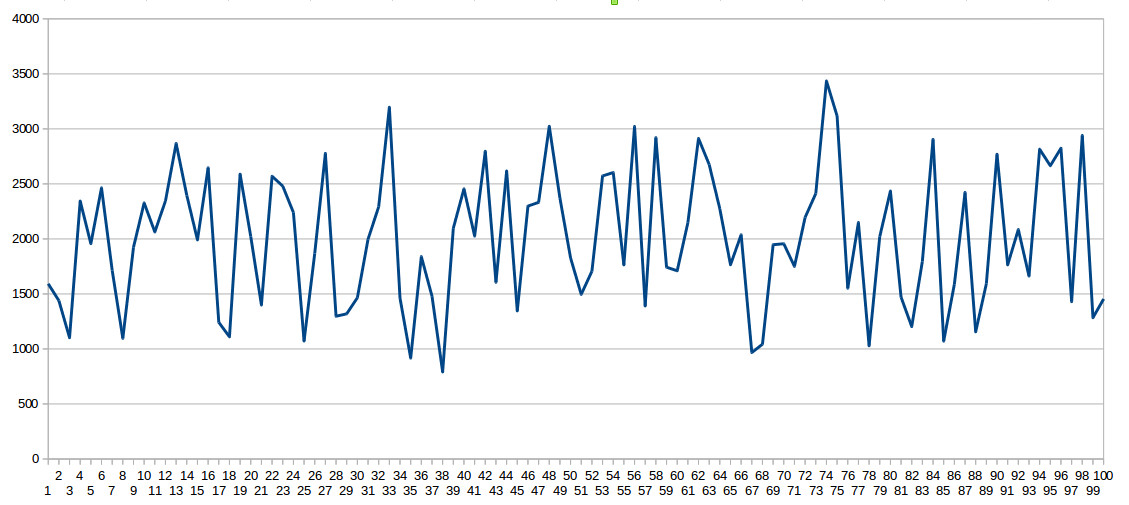
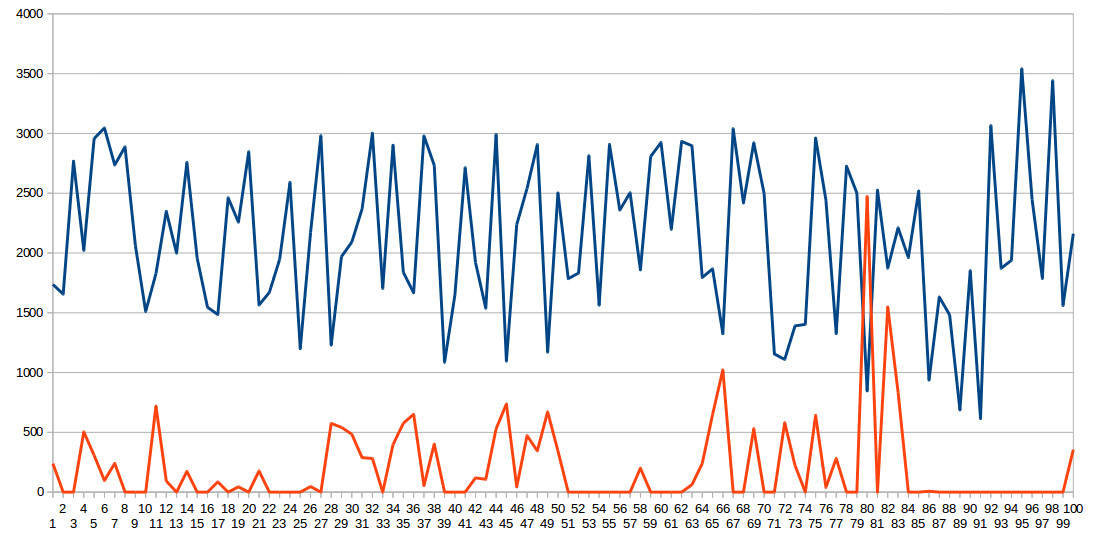
FILT.md improve graph. correlate.py tweak amplitude for more reliable detection.

Changed region(s): [[0.0, 0.0, 1.0, 1.0]]

diff --git a/non_realtime/correlate.py b/non_realtime/correlate.py
@@ -28,7 +28,7 @@ RBUFLEN = 1000
 # Signal burst length. The longer this is the greater the probability of detection.
 SIGLEN = 50
 # Digital amplitude. Compares with analog amplitude of 1000.
-DIGITAL_AMPLITUDE = 400
+DIGITAL_AMPLITUDE = 600  # 400 is about the limit with occasional false positives
 
 def rn_analog():  # Random number in range +- 1000
     return int(pyb.rng() / 536870 - 1000)
@@ -78,4 +78,5 @@ for x in op:
         nextop = x
 s = 'Max correlation {:5.1f} at sample {:d} Next largest {:5.1f} Detection ratio {:5.1f}.'
 print(s.format(maxop, ns, nextop, maxop/nextop))
+print('Correct sample no. is 930.')
 print('Duration {:5d}μs'.format(t))

diff --git a/non_realtime/FILT.md b/non_realtime/FILT.md
@@ -277,7 +277,9 @@ sample sets may be very large.
 
 The graph below shows a 100 sample snapshot of the simulated datastream which
 includes the target signal. This can reliably be identified by `correlate.py`
-with precise timing. Not easy visually :)
+with precise timing. In the graph below the blue line represents the signal and
+the red the correlation. The highest peak occurs at the correct sample at the
+point in time when the entire expected signal has been received.
 
 ![graph](./correlate.jpg)
 
@@ -295,8 +297,8 @@ successive samples but in terms of time this does not imply a loss of
 precision.
 
 The other is to first run a decimation filter to reduce the rate to Nyquist. A
-decimation filter will introduce a time delay. This could be compensated for if
-the application requires precise timing.
+decimation filter will introduce a time delay. However if this is applied to
+both channels the relative phase will be unaffected.
 
 If anyone tries this before I do, please raise an issue describing your
 approach and I will amend this doc.
